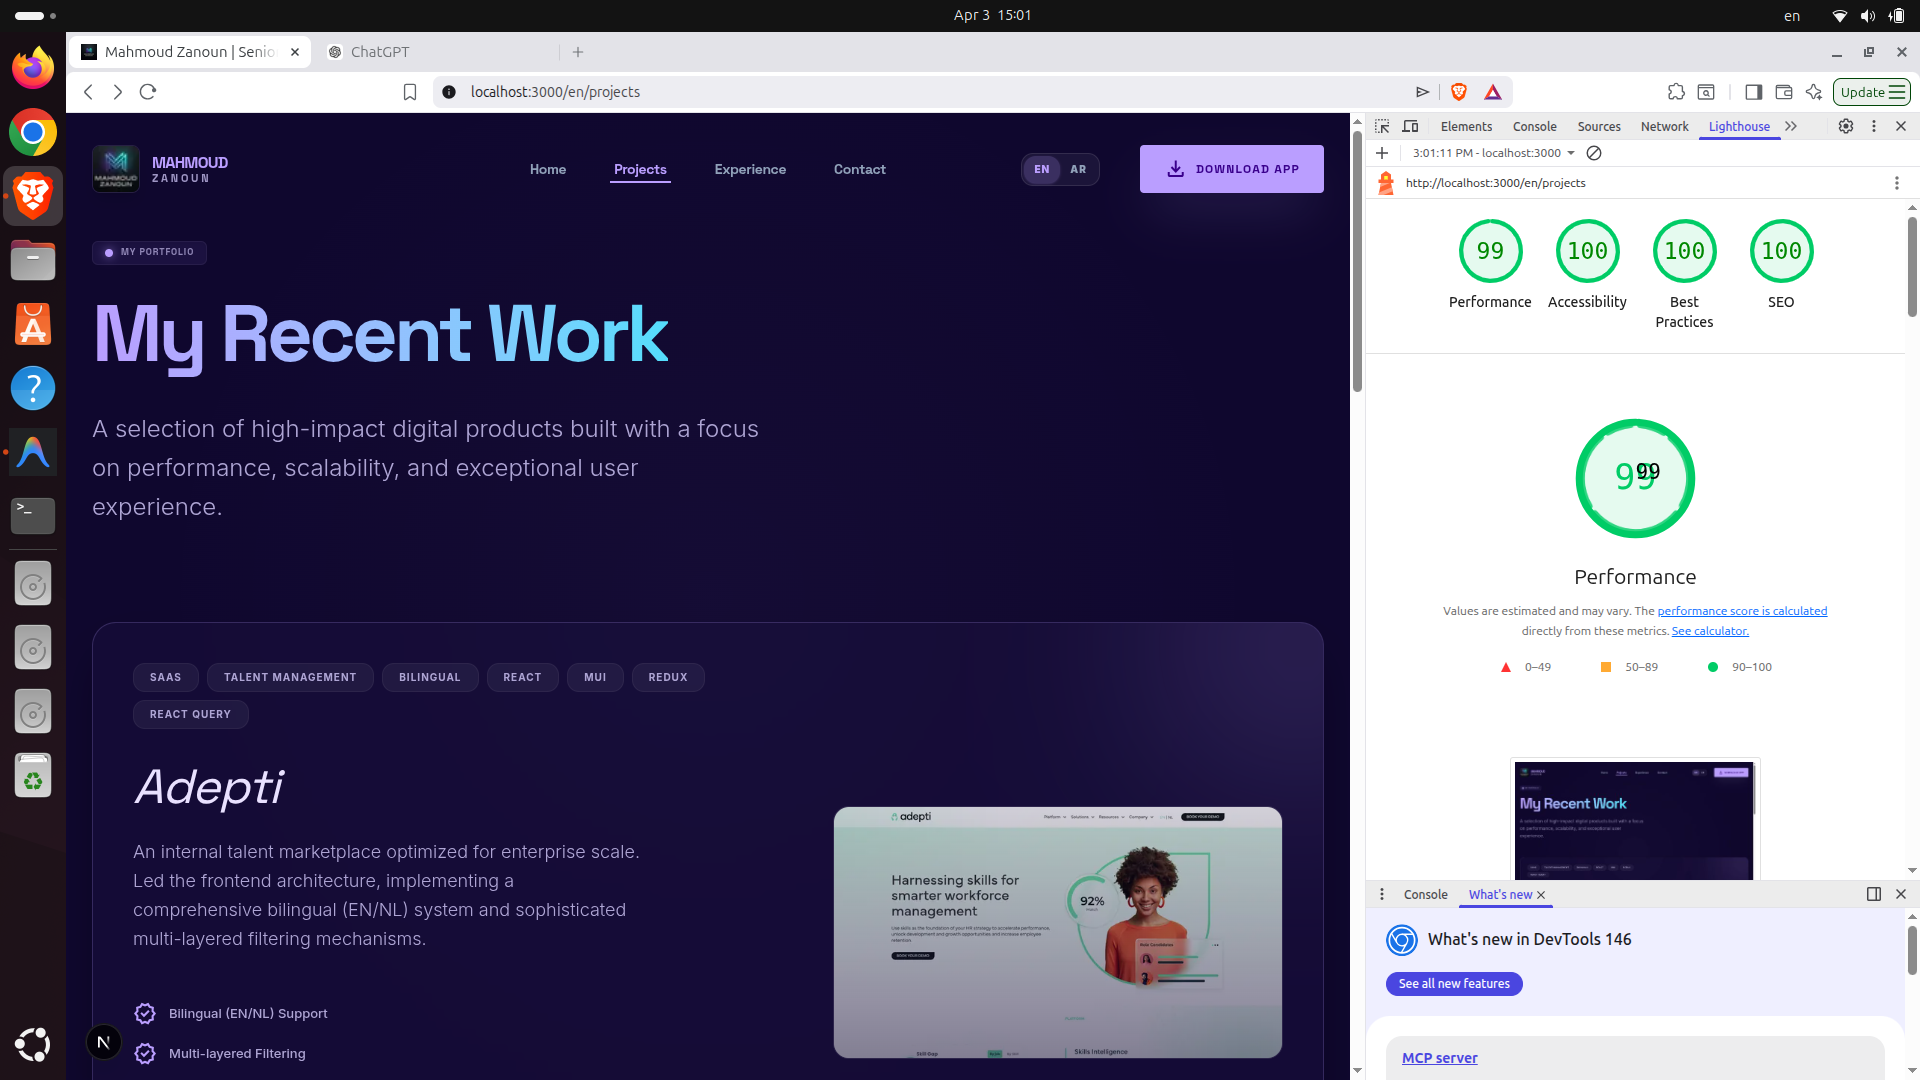
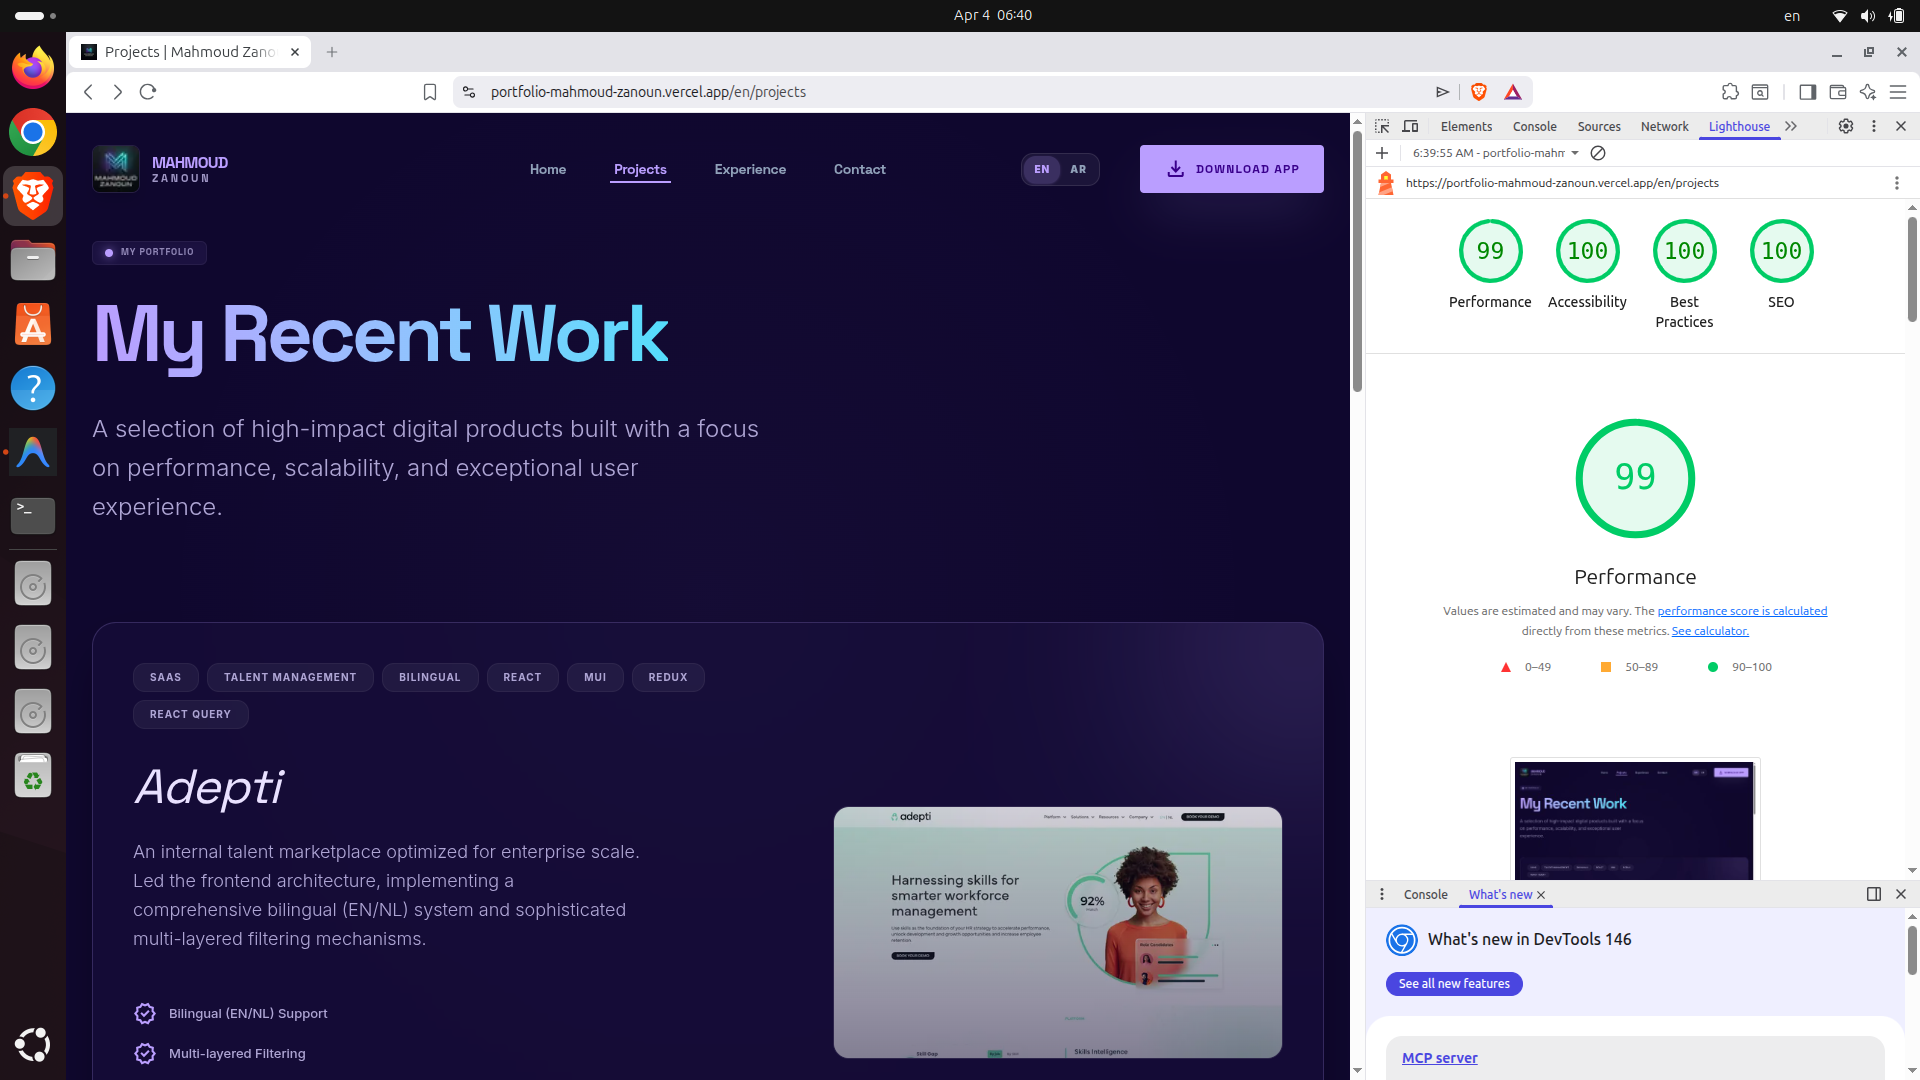
chore: update lighthouse performance score screenshots and documentation in README

diff --git a/README.md b/README.md
@@ -12,11 +12,11 @@ _Tested in pure production incognito against all key pages:_
 
 | Home Page                                                                                  | Projects Page                                                                                      |
 | ------------------------------------------------------------------------------------------ | -------------------------------------------------------------------------------------------------- |
-| <img src="./public/assets/lighthouse/home.png" alt="Home Lighthouse 95 Score" width="400"> | <img src="./public/assets/lighthouse/projects.png" alt="Projects Lighthouse 99 Score" width="400"> |
+| <img src="./public/assets/lighthouse/home.png" alt="Home Lighthouse 98 Score" width="400"> | <img src="./public/assets/lighthouse/projects.png" alt="Projects Lighthouse 99 Score" width="400"> |
 
 | Experience Page                                                                                        | Contact Page                                                                                     |
 | ------------------------------------------------------------------------------------------------------ | ------------------------------------------------------------------------------------------------ |
-| <img src="./public/assets/lighthouse/experience.png" alt="Experience Lighthouse 97 Score" width="400"> | <img src="./public/assets/lighthouse/contact.png" alt="Contact Lighthouse 98 Score" width="400"> |
+| <img src="./public/assets/lighthouse/experience.png" alt="Experience Lighthouse 99 Score" width="400"> | <img src="./public/assets/lighthouse/contact.png" alt="Contact Lighthouse 98 Score" width="400"> |
 
 ---
 
